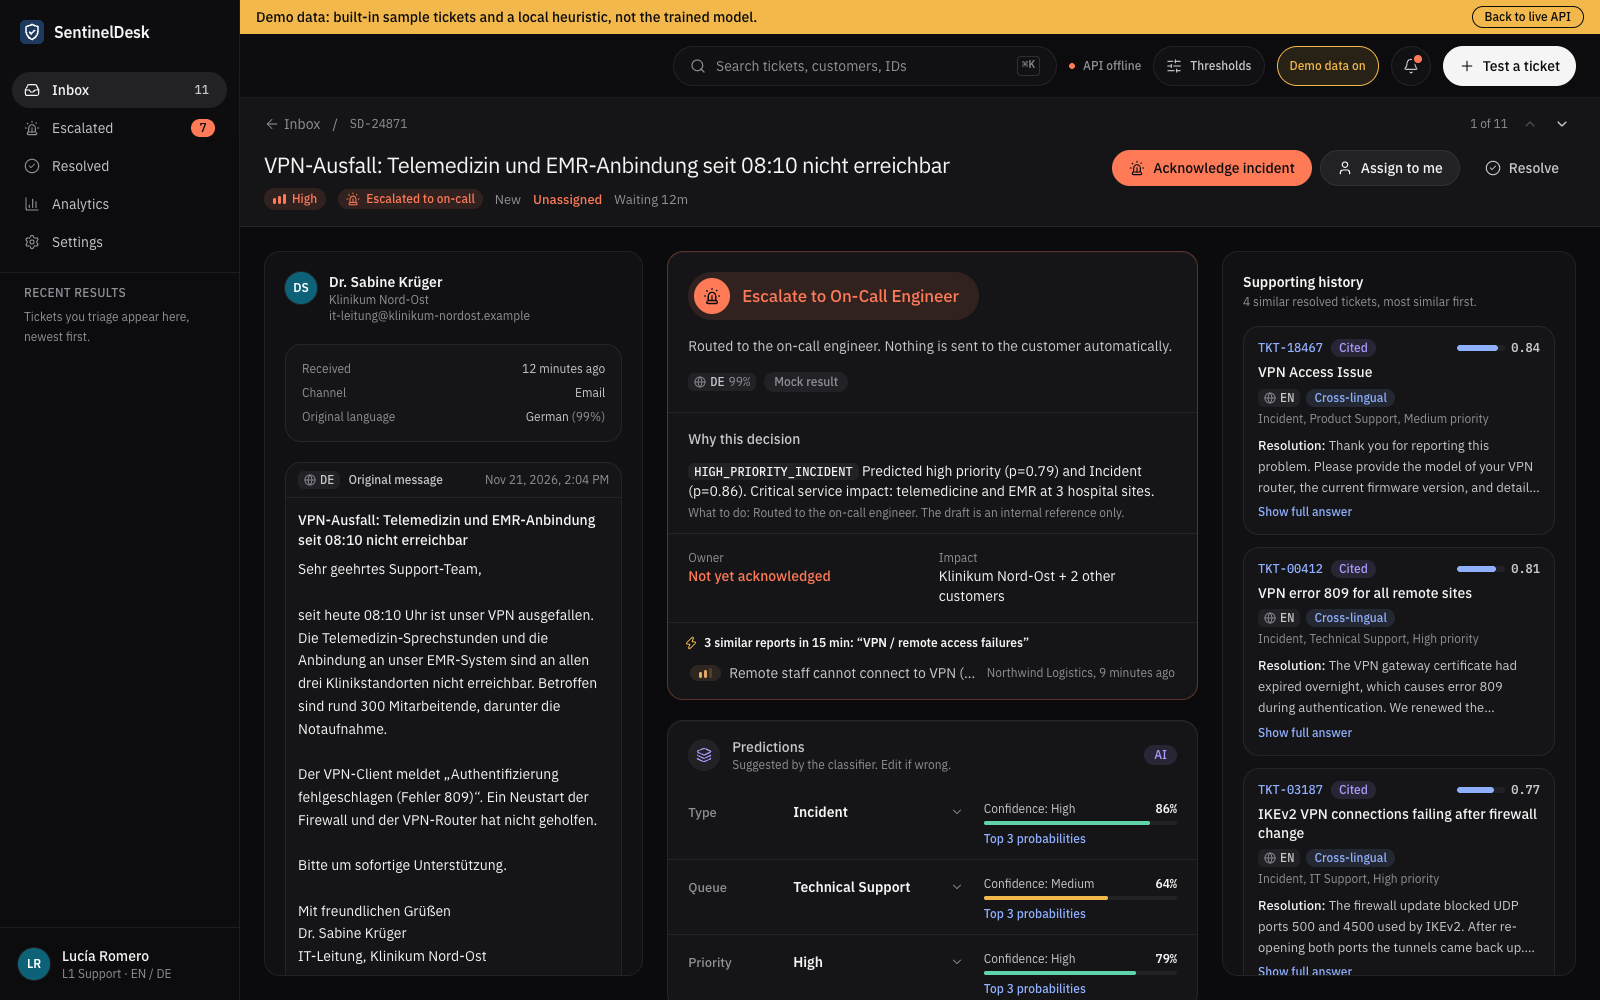
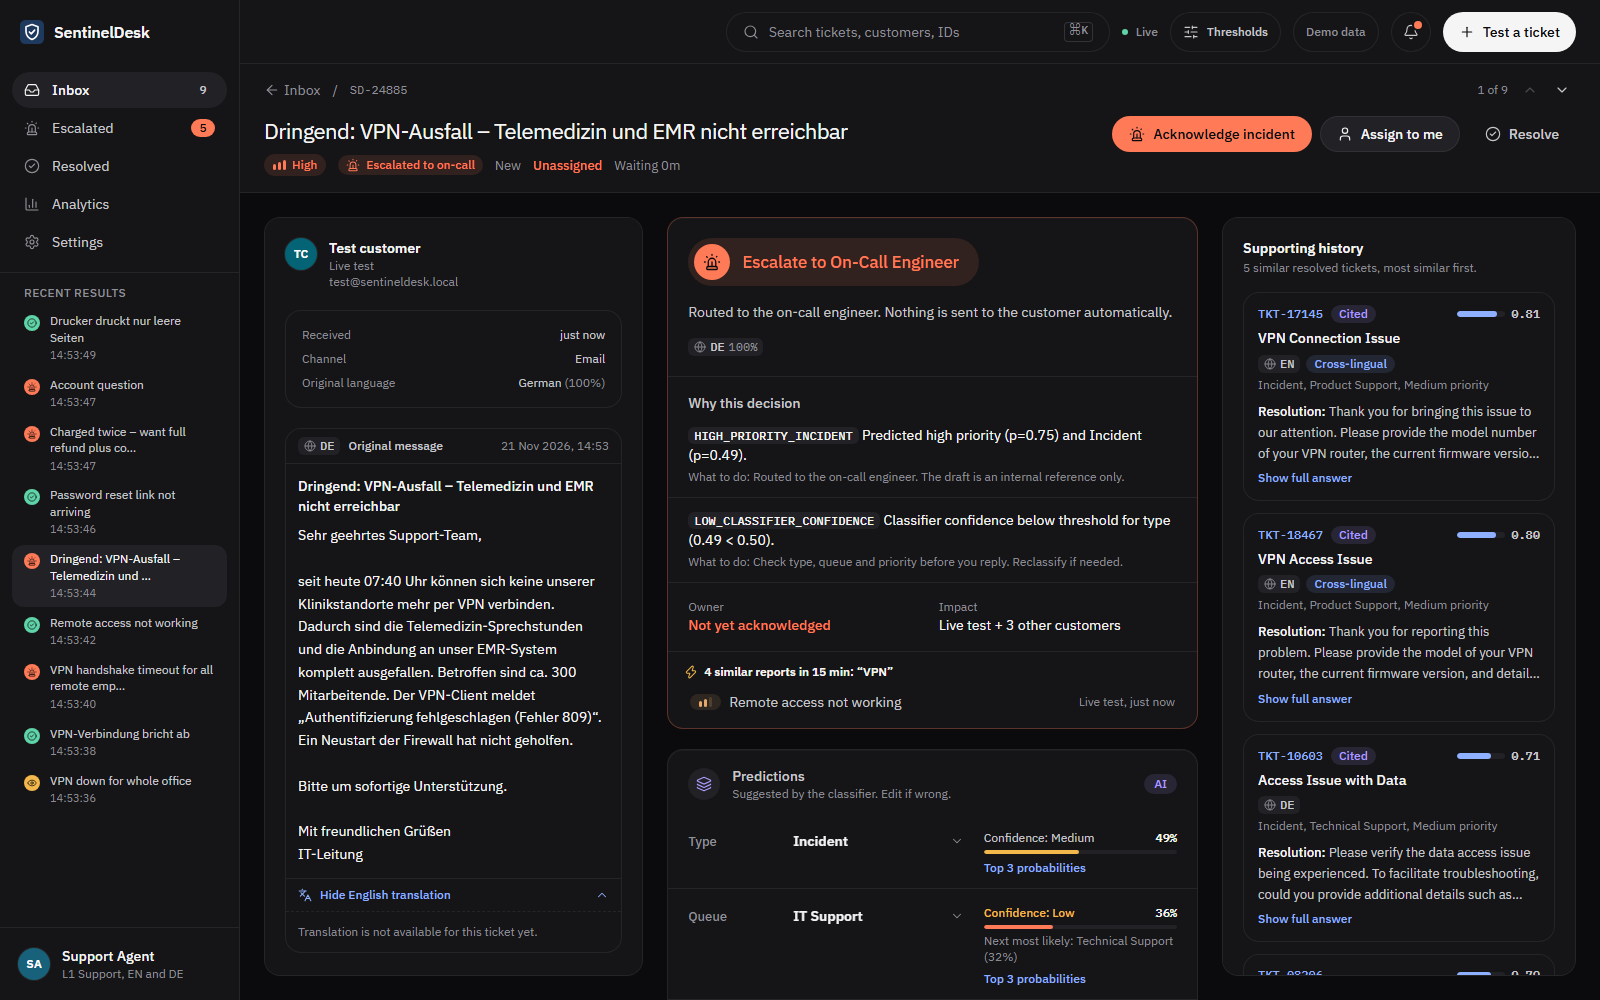
C.8: live console screenshots and agent name setting
README screenshot now comes from the live API; adds inbox and German
draft screenshots and the VITE_AGENT_NAME note.

diff --git a/web/src/data/mockBackend.ts b/web/src/data/mockBackend.ts
@@ -13,6 +13,7 @@
  */
 import type { AnalyticsSummary, Pred, Precedent, Priority, Queue, Reason, Ticket, TicketType, TriageResponse, WorkflowStatus } from '../types'
 import examples from './dataset_examples.json'
+import { AGENT } from '../lib/session'
 
 const real = Object.fromEntries((examples as { tickets: { ticket_id: string; subject: string; body: string; answer: string; type: string; queue: string; priority: string; language: string; tags: string[] }[] }).tickets.map((t) => [t.ticket_id, t]))
 
@@ -310,7 +311,7 @@ const SPECS: Spec[] = [
     agentReply: { by: 'Markus Brandt', after: 25, body: 'Hello Grace,\n\nthank you for reporting this. We are aware that the account management portal is unavailable and our engineers are working on it with the highest priority. We will update you as soon as the service is back online.\n\nKind regards,\nMarkus Brandt' },
   },
   {
-    id: 'SD-24852', minutesAgo: 230, status: 'open', assignee: 'Lucía Romero',
+    id: 'SD-24852', minutesAgo: 230, status: 'open', assignee: AGENT.name,
     requester: { name: 'Daniel Brooks', email: 'daniel.brooks@example.com', org: 'Brooks Home Studio' }, channel: 'portal',
     subject: real['TKT-18680'].subject, body: real['TKT-18680'].body,
     triage: triage({
@@ -394,7 +395,7 @@ const SPECS: Spec[] = [
     }),
   },
   {
-    id: 'SD-24866', minutesAgo: 160, status: 'open', assignee: 'Lucía Romero',
+    id: 'SD-24866', minutesAgo: 160, status: 'open', assignee: AGENT.name,
     requester: { name: 'Felix Wagner', email: 'felix.wagner@example.de', org: 'Wagner Bau AG' }, channel: 'portal',
     subject: 'Drucker druckt nur leere Seiten',
     body: 'Hallo,\n\nseit dem letzten Treiber-Update druckt unser Laserdrucker im 2. OG nur noch leere Seiten. Neustart haben wir schon versucht.\n\nDanke\nFelix Wagner',
@@ -416,7 +417,7 @@ const SPECS: Spec[] = [
     }),
   },
   {
-    id: 'SD-24840', minutesAgo: 26 * 60, status: 'resolved', assignee: 'Lucía Romero',
+    id: 'SD-24840', minutesAgo: 26 * 60, status: 'resolved', assignee: AGENT.name,
     requester: { name: 'Sophie Laurent', email: 'sophie.laurent@example.fr', org: 'Laurent Design' }, channel: 'email',
     subject: real['TKT-05099'].subject, body: real['TKT-05099'].body,
     triage: triage({
@@ -427,7 +428,7 @@ const SPECS: Spec[] = [
       precedents: [prec('TKT-07788', 0.633)],
       draft: { text: 'Hello Sophie,\n\nthank you for your billing questions. Our billing team will send you a breakdown of the charges on your account.\n\nKind regards,\nSupport Team', cited: [] },
     }),
-    agentReply: { by: 'Lucía Romero', after: 40, body: real['TKT-05099'].answer, unedited: false },
+    agentReply: { by: AGENT.name, after: 40, body: real['TKT-05099'].answer, unedited: false },
     csat: 5,
   },
   {

diff --git a/web/src/lib/session.ts b/web/src/lib/session.ts
@@ -1,2 +1,11 @@
-/** The signed-in agent (demo). Replace with the auth session when it exists. */
-export const AGENT = { name: 'Lucía Romero', role: 'L1 Support · EN / DE' }
+/**
+ * The signed-in agent (demo). Replace with the auth session when it exists.
+ * Set VITE_AGENT_NAME and VITE_AGENT_ROLE in web/.env.local to show your own name.
+ */
+const name = (import.meta.env.VITE_AGENT_NAME as string | undefined)?.trim()
+const role = (import.meta.env.VITE_AGENT_ROLE as string | undefined)?.trim()
+
+export const AGENT = {
+  name: name || 'Support Agent',
+  role: role || 'L1 Support, EN and DE',
+}

diff --git a/README.md b/README.md
@@ -8,9 +8,11 @@ SentinelDesk reads an incoming support ticket in English or German, predicts its
 A rule-based safety gate decides whether the ticket goes to the on-call engineer, to human review, or gets an AI reply draft. Every decision carries a reason code with the numbers behind it.
 Drafts come from Gemini, may only state facts from cited past resolutions, and are never sent without a person approving them in the console.
 
-![SentinelDesk console: a German hospital VPN outage escalated to the on-call engineer, with the reason, the predicted labels and four cited English precedents](web/screenshots/console-ticket.png)
+![SentinelDesk console: a German hospital VPN outage escalated to the on-call engineer, with the reasons, the predicted labels and cited English precedents](web/screenshots/console-ticket.png)
 
-*The ticket workspace for a German VPN outage. The gate routes it to on-call (`HIGH_PRIORITY_INCIDENT`, P(high)=0.79, P(Incident)=0.86) and retrieves English VPN resolutions as evidence. Screenshot taken in the console's "Demo data" mode.*
+*The ticket workspace for a German VPN outage (demo-01), from the live API with the trained models on 2026-11-21. The gate routes it to on-call with `HIGH_PRIORITY_INCIDENT` (P(high)=0.75, P(Incident)=0.49) and `LOW_CLASSIFIER_CONFIDENCE` (type 0.49 < 0.50). The two closest precedents are English VPN tickets (similarity 0.81 and 0.80), and the German draft cites both. Three other VPN tickets in the same 15 minutes raise the burst flag.*
+
+More live screenshots: [inbox with the burst banner](web/screenshots/console-inbox.png) and [a German auto-draft that cites an English ticket](web/screenshots/console-draft.png).
 
 ## Architecture
 
@@ -67,6 +69,7 @@ cd web && npm install && npm run dev   # the console at http://localhost:5173
 
 - `make_split` uses the dataset CSV committed in `data/`. If that file is missing, it downloads it from Hugging Face.
 - The console calls `http://localhost:8000` by default. To use another address, put `VITE_API_URL=...` in `web/.env.local`.
+- The sidebar shows "Support Agent" by default. To show your own name, put `VITE_AGENT_NAME=...` (and optionally `VITE_AGENT_ROLE=...`) in `web/.env.local` and restart the console.
 - Mock API (no models needed): `SENTINEL_MOCK=1 uvicorn api.main:app --port 8000`.
 - Windows: `run.bat` starts the API and the console together (`run.bat mock` for the mock API).
 - If the API is unavailable during a presentation, the console's **Demo data** switch in the top bar loads built-in sample tickets and a local heuristic. A banner says so while it is on.
